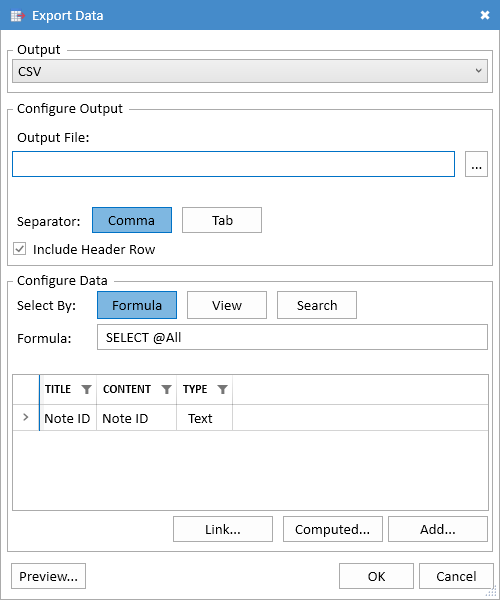
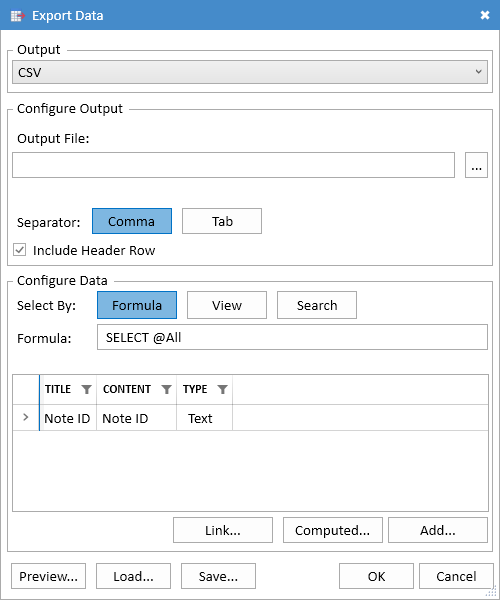
Update EN docs for 5.1.0

diff --git a/docs/release.ja.md b/docs/release.ja.md
@@ -1,108 +1,32 @@
-# リリースノート
-## Teamstudio Export 5.0
-Teamstudio Export 5.0 は機能拡張版です。
+# Release Notes
+## Teamstudio Export 5.1
+Teamstudio Export 5.1 is a feature update to Export.
 
-Export 5.0 の主な新機能は、強力なデータエクスポーターです。これにより、さまざまな形式でデータをエクスポートできます:
+The data export feature introduced in Export 5.0 has been updated to allow you to save and reload your data selection criteria. This includes your specific selection (formula, view, or search) as well as the list of columns to be exported.
 
-* **SharePoint リスト** - 新規または既存の SharePoint リストにデータをアップロードし、添付ファイルを含めることも可能です。
-* **CSV** - コンマやタブで区切られたテキストファイルを生成します。
-* **添付ファイル** - すべての添付ファイル、OLEオブジェクト、埋め込み画像を抽出できます。
+Export 5.1 has transitioned to *.NET 10*, replacing the older .NET Framework used in all previous versions. We now bundle a local .NET runtime directly with Export. While this increases the download and install size, it removes the need for a shared .NET installation on your computer. 
 
-どの出力形式においても、次の 3 つの異なる方法で文書を選択できます。:
+This architectural shift provides several key benefits:
 
-* **式による選択** - ビュー選択式に似ており、Export がサポートする任意の @関数を使用できます。
-* **ビューによる選択** - 指定した既存のビュー内のすべての文書が含まれます。
-* **検索による選択** - Export は Apache Lucene.NET 検索ライブラリが組み込まれており、データに対して全文検索を実行できます。HTML/PDF にデータをエクスポートする際に使用される全文検索は、ブラウザ内で JavaScript を使って実行されるため、提供できる機能に大きな制約があります。その一方、Lucene.NET は Export 内で動作するため、はるかに強力なエクスペリエンスを提供します。例えば、単語ではなくフレーズでの検索が可能であり、特定の用語に一致する文書を除外することもできます。
+* **Simplified Deployment:** Eliminates bugs caused by subtle differences in user-installed .NET Framework versions.
+* **Cutting-Edge Security:** Allows Export to take advantage of the newest, most secure .NET features.
+* **Easier Maintenance:** Simplifies the process of updating Export if vulnerabilities are ever discovered in .NET or third-party libraries.
 
-どの文書を含めるかを選択するだけでなく、エクスポートするデータを 1 つ以上の列の形式で指定することもできます。式や検索による文書選択時、列はデータベース設計の任意のフィールドまたは @関数を使用した計算式を使用できます。ビューによる選択時、初期状態ではビューに定義されたすべての列と Note ID 用の列が含まれます。列の順序を変更したり、不要な列を削除したりできますが、新しい値を追加することはできません。
+Lastly, we have updated our code signing to use *Microsoft Artifact Signing*. This improves security by utilizing short-lived certificates that are valid for only 3 days. Because of this, *it is normal and expected for the certificate to appear expired by the time you install the product.* Rest assured, our signatures are all securely timestamped at the exact moment of signing. As long as the certificate was valid when the product was signed, the signature remains completely valid. Expiring the certificates quickly simply ensures they cannot be misused if they ever fall into the wrong hands.
 
-新しいデータエクスポート機能の詳細は、 [データのエクスポート](data.md)を参照してください。
+Additional fixes are identified in the Fix List section below.
 
-追加の修正内容は以下の不具合修正リストのセクションで確認できます。
+Please refer to [Installing Teamstudio Export](installing.md) for details on system requirements and installation. This page will be updated with any known issues and fixes as they become available.
 
-
-Export 5.0 の新機能や修正を活用するために、データベースを再度アーカイブし直す必要はありません。
-
-システム要件やインストールに関する詳細は [Teamstudio Exportのインストール](installing.md) を参照してください。このページは、既知の問題や修正が利用可能になるたびに更新されます。
-
-## 不具合修正リスト
-### Export 5.0.2
-[508] @Transform で非リテラルの変数名をサポート  
-[509] 著作権表記の年を 2025 年に更新  
-[510] データエクスポート時に UNID をテキストへ変換  
-[511] UrlLinks 内にネストされた AttachmentRefs を処理  
-[512] 空行があると HTML でテーブルが非表示にならない問題を修正  
-[514] “PaintShopPro” の OLE2 オブジェクトをスキップ  
-[515] Base64 エンコードされた添付ファイルを処理  
-[516] CSV パスが無効な場合の NullReferenceException を修正  
-[517] Data Export で Lucene 使用時にまれに発生する NullReferenceException を修正  
-[518] @UrlDecode をサポート  
-[519] @DbLookup のローカルデータベース取得方法を改善  
-[520] 無効化なビュー列の非表示式を処理  
-[521] 置換に用いる（*）の等価演算子が誤った値を返す可能性のある問題を修正  
-[522] Data Export のフィールドピッカーがカテゴリ分けを誤る問題を修正  
-[523] ビュー列で改行区切りを遵守  
-[524] Visio 2 OLE1 オブジェクトを処理  
-[525] 欧州ロケールで PDF イメージマップ生成エラーを修正  
-[526] Base64 エンコードと誤認識されている添付ファイルを処理  
-[527] 埋め込みコントロールで予期しない実行処理  
-[528] @Name([Canonicalize]) が OU コンポーネントを失う問題を修正  
-[529] SharePoint へのエクスポートでリクエストサイズを上限設定  
-[530] 必要に応じて MIME 変換を行わずにドキュメントをアーカイブへ追加  
-[531] MIME→DXL 変換を実装  
-[534] Word.Picture.6 OLE オブジェクトをスキップ  
-[535] ABCFlow OLE オブジェクトをスキップ  
-[536] @Max と @Min を追加  
-[537] @WebDbName を追加  
-[538] @UrlEncode を追加  
-[539] 式のコンパイルエラーで例外出力しないよう修正  
-[540] MSDraw OLE オブジェクトをスキップ  
-[541] 不明な OLE オブジェクトタイプをスキップ  
-[543] ビューキャッシュディレクトリのクリーンアップ中に発生する断続的な IO エラーを修正  
-[544] 類似したファイル名が原因で発生する SharePoint の問題に対処
-
-### Export 5.0.1
-[478] SharePoint アップロード時に Content-Type が欠落している場合の処理を改善  
-[479] SharePoint アップロード時に「Unauthorized」エラーが発生する問題を修正  
-[480] 破損したアーカイブをリフレッシュした際のエラーメッセージを改善  
-[481] SharePoint 接続のログ記録を強化  
-[482] 各サイトごとに個別の MSAL キャッシュを作成  
-[483] Visio.Drawing.4 OLE タイプをサポート  
-[484] データエクスポート時の追加の無効なファイル名文字を処理するように改善  
-[485] SharePoint リストの列を自動的にインデックスしないよう変更  
-[486] データエクスポート時の添付ファイル名に不要な空白などを削除するように改善  
-[487] データエクスポート時の追加の無効なファイル名文字を処理するように改善  
-[488] Package OLE2 オブジェクトの処理を追加  
-[489] 右クリックでサポートファイルを生成する機能を修正  
-[490] ヨーロッパのロケールで埋め込みビューの列幅が正しく表示されない問題を修正  
-[491] 変数名で「@」記号をサポート  
-[492] @ServerName をサポート  
-[493] アーカイブビューで大きなノート ID を処理できるよう修正  
-[494] PaintShopPro OLE 1 オブジェクトをスキップ  
-[495] Excel.Chart.5 OLE 1 タイプをサポート  
-[496] URL で指定された画像をスキップ  
-[497] 格納フォーム内の無効な行/列結合を処理するように修正  
-[498] 格納フォーム内のテキストの水平配置を処理するように修正  
-[499] 格納フォーム内のページ区切りを処理するように修正  
-[500] 古いデータベースでテーブルの余白が正しくない問題を修正  
-[501] 格納フォームでテーブルの余白が正しくない問題を修正  
-[502] Visio.Drawing.3 OLE タイプをサポート  
-[503] 参照されていない添付ファイルが PDF に正しく埋め込まれない問題を修正  
-[504] 添付ファイルのない OLE オブジェクト参照を処理するように修正  
-[505] 添付ファイル名に含まれる複数のピリオド（.）を重複排除  
-[506] ファイル名が空の $file オブジェクトを処理するように修正  
-[507] セクションタイトルの背景処理を改善
-
-### Export 5.0.0
-[187316243]	@DbLookupでビューのデータファイルがない場合の処理  
-[187318928]	アーカイブにDXLをインポートする方法の提供  
-[187363948]	無効な添付ファイル名に対する保護  
-[187408442]	埋め込みビューでの複数値アイコン列の処理  
-[187416749]	埋め込みビューでの複数行エントリーの処理  
-[187486941]	全文索引にTYPE_NOTEREF_LIST項目を含めるように修正  
-[187540358]	PDF 画像サイズをフィットさせるベータオプションの追加  
-[187694126]	列非表示数式での @Created に対する保護  
-[187703998]	データベース間の @DbLookup のサポート  
-[187937349]	'PBrush' および 'AutoCAD' の OLE タイプのサポート  
-[187961958]	'Paint.Picture' および 'SoundRec' の OLE タイプのサポート  
-[188164406] 長い小数点数の表示を改善
+## Fix List
+### Export 5.1.0
+[545] Fix debug warnings from SQLite  
+[546] Constant columns are not properly handled in @DbLookup  
+[547] Update Code Signing Certificate  
+[548] Improve handling of corrupt Base64 attachments  
+[549] Support @While  
+[550] Fix HTML generation for aligned paragraphs with custom bullets  
+[551] Fix PDF error with relative/ambiguous URL links  
+[552] Data for views hidden from the client is not archived  
+[553] Fix 'cannot access file' exception processing certain corrupt OLE objects  
+[554] Support Visio.Drawing.5 OLE type

diff --git a/docs/release.md b/docs/release.md
@@ -1,107 +1,32 @@
 # Release Notes
-## Teamstudio Export 5.0
-Teamstudio Export 5.0 is a feature update to Export.
+## Teamstudio Export 5.1
+Teamstudio Export 5.1 is a feature update to Export.
 
-The major new feature of Export 5.0 is a powerful data exporter. This allows you to export data in a variety of formats:
+The data export feature introduced in Export 5.0 has been updated to allow you to save and reload your data selection criteria. This includes your specific selection (formula, view, or search) as well as the list of columns to be exported.
 
-* **SharePoint Lists** - Upload data to a new or existing SharePoint list, optionally including attachments.
-* **CSV** - Generate text files delimited with commas or tabs.
-* **Attachments** - Extract all attachments, OLE objects and embedded images.
+Export 5.1 has transitioned to *.NET 10*, replacing the older .NET Framework used in all previous versions. We now bundle a local .NET runtime directly with Export. While this increases the download and install size, it removes the need for a shared .NET installation on your computer. 
 
-For any output format, you can select documents in three different ways:
+This architectural shift provides several key benefits:
 
-* **By Formula** - Similar to a view selection formula, using any @function supported by Export.
-* **By View** - Includes all of the documents from an existing view.
-* **By Search** - Export now includes the Apache Lucene.NET search library, allowing you to perform full-text searches on your data. The full-text search that Export uses when you export data to HTML/PDF needs to run within a browser using JavaScript. This places severe limitations on the features that it can provide. Lucene.NET, on the other hand, runs within Export and thus can offer a much more powerful experience. For example, you can search for phrases rather than single words, and can also exclude documents matching certain terms.
+* **Simplified Deployment:** Eliminates bugs caused by subtle differences in user-installed .NET Framework versions.
+* **Cutting-Edge Security:** Allows Export to take advantage of the newest, most secure .NET features.
+* **Easier Maintenance:** Simplifies the process of updating Export if vulnerabilities are ever discovered in .NET or third-party libraries.
 
-In addition to selecting which documents to include, you can also specify the data to be exported, in the form of one or more columns. When you select documents by formula or by search the columns can be any fields from the database design or any computed expressions using @formulas. When you select documents by view, the columns will initially be all of the columns defined in the view along with a column for the Note ID. You can re-order the columns and remove any unwanted ones, but you cannot add new values.
-
-For full details on the new data export features, see [Exporting Data](data.md).
+Lastly, we have updated our code signing to use *Microsoft Artifact Signing*. This improves security by utilizing short-lived certificates that are valid for only 3 days. Because of this, *it is normal and expected for the certificate to appear expired by the time you install the product.* Rest assured, our signatures are all securely timestamped at the exact moment of signing. As long as the certificate was valid when the product was signed, the signature remains completely valid. Expiring the certificates quickly simply ensures they cannot be misused if they ever fall into the wrong hands.
 
 Additional fixes are identified in the Fix List section below.
-
-There is no need to re-archive your database to take advantage of any of the new features and fixes in Export 5.0.
 
 Please refer to [Installing Teamstudio Export](installing.md) for details on system requirements and installation. This page will be updated with any known issues and fixes as they become available.
 
 ## Fix List
-### Export 5.0.2
-[508] Support non-literal variable names in @Transform  
-[509] Bump copyright year to 2025  
-[510] Convert unids to text for data export  
-[511] Handle AttachmentRefs nested in UrlLinks  
-[512] Empty rows can prevent tables from hiding on HTML  
-[514] Skip 'PaintShopPro' OLE 2 objects  
-[515] Handle base64 encoded attachments  
-[516] Fix NullReferenceException when CSV path is invalid  
-[517] Fix rare NullReferenceException using Lucene with Data Export  
-[518] Support @UrlDecode  
-[519] Improve local database resolution in @DbLookup  
-[520] Handle disabled view column hide formulas  
-[521] Permuted (*) equality operators may return incorrect values  
-[522] Data Export field picker categorizes incorrectly  
-[523] Respect newline separator in view columns  
-[524] Handle Visio 2 OLE1 objects  
-[525] Fix error generating PDF imagemaps in European locales  
-[526] Handle attachments incorrectly marked as base64 encoded  
-[527] Handle unexpected runs in embedded controls  
-[528] @Name([Canonicalize]) loses OU components  
-[529] Cap the request size when exporting to SharePoint  
-[530] Add documents to archive without MIME conversion if necessary  
-[531] Implement MIME->DXL conversion  
-[534] Skip Word.Picture.6 OLE objects  
-[535] Skip ABCFlow OLE objects  
-[536] Add @Max and @Min  
-[537] Add @WebDbName  
-[538] Add @UrlEncode  
-[539] Formula compilation errors should not throw an exception  
-[540] Skip MSDraw OLE objects  
-[541] Skip unknown OLE object types  
-[543] Intermittent IO error cleaning up view cache directory  
-[544] Work around SharePoint issue with certain similar filenames
-
-### Export 5.0.1
-[478] Handle missing Content-Type in SharePoint upload  
-[479] SharePoint upload fails with "Unauthorized" error  
-[480] Improve error message when refresh hits a corrupt archive  
-[481] Improve SharePoint connection logging  
-[482] Create a separate MSAL cache for each site  
-[483] Support Visio.Drawing.4 OLE type  
-[484] Handle additional invalid file name characters in data export  
-[485] Do not automatically index SharePoint list columns  
-[486] Trim attachment filenames in data export  
-[487] Handle additional invalid file name character in data export  
-[488] Handle Package OLE2 objects  
-[489] Repair right-click support file generation  
-[490] Embedded view column widths incorrect in European locales  
-[491] Support @ sign in variable names  
-[492] Support @ServerName  
-[493] Handle large note ids in archived views  
-[494] Skip PaintShopPro OLE 1 objects  
-[495] Support Excel.Chart.5 OLE 1 type  
-[496] Skip images specified by URL  
-[497] Handle invalid row/colspans in stored forms  
-[498] Handle text horizontal alignment in stored forms  
-[499] Handle page breaks in stored forms  
-[500] Table margins may be incorrect in older databases  
-[501] Table margins may be incorrect in stored forms  
-[502] Support Visio.Drawing.3 OLE type  
-[503] Unreferenced attachments do not embed correctly in PDFs  
-[504] Handle OLE object references with no attachments  
-[505] Dedupe multiple periods in attachment file names  
-[506] Handle $file objects with an empty name  
-[507] Improve section title background handling
-
-### Export 5.0.0
-[187316243]	Handle missing view data file in @DbLookup  
-[187318928]	Provide a way to import DXL to an archive  
-[187363948]	Protect against invalid attachment names  
-[187408442]	Handle multi-value icon columns in embedded views  
-[187416749]	Handle multi-line entries in embedded views  
-[187486941]	Include TYPE\_NOTEREF\_LIST items in full text index  
-[187540358]	Add beta option to size PDF images to fit  
-[187694126]	Protect against @Created in column hide formula  
-[187703998]	Support cross-database @DbLookups  
-[187937349]	Support 'PBrush' and 'AutoCAD' OLE types  
-[187961958]	Support 'Paint.Picture' and 'SoundRec' OLE types  
-[188164406] Improve display of long decimal numbers
+### Export 5.1.0
+[545] Fix debug warnings from SQLite  
+[546] Constant columns are not properly handled in @DbLookup  
+[547] Update Code Signing Certificate  
+[548] Improve handling of corrupt Base64 attachments  
+[549] Support @While  
+[550] Fix HTML generation for aligned paragraphs with custom bullets  
+[551] Fix PDF error with relative/ambiguous URL links  
+[552] Data for views hidden from the client is not archived  
+[553] Fix 'cannot access file' exception processing certain corrupt OLE objects  
+[554] Support Visio.Drawing.5 OLE type

diff --git a/docs/data.ja.md b/docs/data.ja.md
@@ -152,5 +152,22 @@ Notes のビュー選択式に似た式を入力できます。ほとんどの @
 ## プレビュー
 ダイアログの左下にある *Preview...* ボタンをクリックすると、データベースから最大 50 件の一致する文書が表示されます。これにより、文書の選択や列の定義が正しく設定されているかを確認できます。大規模なデータベースを検索している場合や、選択式に一致する文書が少ない場合、プレビューが一致する文書を見つけるのに時間がかかることがあります。プレビューは、文書が見つかるたびに更新されます。完了を待たずに、いつでも閉じることができます。
 
+## Saving and Loading Data Selections
+Export 5.1 introduces the ability to save and reload your data configuration, i.e., the selection type and the list of columns. The saved configuration does not include the output configuration - CSV file, SharePoint list etc - since this will almost always be different for different databases.
+
+### Save
+The *Save...* button will display a dialog asking for a name for the saved configuration. If you enter the name of an existing configuration, you will be asked if you want to overwrite it. This allows you to modify an existing configuration by loading it, making the necessary changes and then re-saving it using the same name.
+
+### Load
+The *Load...* button will display a dialog showing a list of previously saved configurations.
+
+<figure markdown="1">
+  ![Load Data](img/data_load.png)
+</figure>
+
+The list is categorized by the selection type: *Formula*, *View* or *Search*. If you select a configuration and click *OK*, Export will attempt to load it. In some cases Export will not be able to load the requested configuration. For example, if the selection is based on a view, Export will verify that a view with the correct name exists in the current database. If a matching view cannot be found, Export will be unable to load the configuration. If a view with the correct name is found but it does not have all of the required columns, Export will load the configuration but will display a warning that not all of the columns could be loaded.
+
+You can delete a saved configuration by right-clicking on it in the *Load* dialog and choosing *Delete* from the popup menu.
+
 ## エクスポート
 エクスポートを設定し、出力をプレビューした後、*OK* をクリックするとエクスポートが開始されます。エクスポートはバックグラウンドで実行され、他のバックグラウンドタスクと同様に [Progress Window](progress.md) で監視できます。

diff --git a/docs/data.md b/docs/data.md
@@ -155,5 +155,22 @@ Link columns will be exported to SharePoint as URL columns rather than plain tex
 ## Preview
 The *Preview...* button at the bottom left of the dialog will show up to 50 matching documents from the database. This allows you to check that you have the document selection and column definitions set up correctly before starting the export. It may take some time for the preview to find matching documents if you are searching a large database and not many documents match the selection formula. The dialog will update to show matching documents as they are found. You can close it at any time without waiting for the preview to complete.
 
+## Saving and Loading Data Selections
+Export 5.1 introduces the ability to save and reload your data configuration, i.e., the selection type and the list of columns. The saved configuration does not include the output configuration - CSV file, SharePoint list etc - since this will almost always be different for different databases.
+
+### Save
+The *Save...* button will display a dialog asking for a name for the saved configuration. If you enter the name of an existing configuration, you will be asked if you want to overwrite it. This allows you to modify an existing configuration by loading it, making the necessary changes and then re-saving it using the same name.
+
+### Load
+The *Load...* button will display a dialog showing a list of previously saved configurations.
+
+<figure markdown="1">
+  ![Load Data](img/data_load.png)
+</figure>
+
+The list is categorized by the selection type: *Formula*, *View* or *Search*. If you select a configuration and click *OK*, Export will attempt to load it. In some cases Export will not be able to load the requested configuration. For example, if the selection is based on a view, Export will verify that a view with the correct name exists in the current database. If a matching view cannot be found, Export will be unable to load the configuration. If a view with the correct name is found but it does not have all of the required columns, Export will load the configuration but will display a warning that not all of the columns could be loaded.
+
+You can delete a saved configuration by right-clicking on it in the *Load* dialog and choosing *Delete* from the popup menu.
+
 ## Export
 Once you have configured the export and previewed the output, you can start the export by clicking *OK*. The export itself will take place in the background and, as with any background task, can be monitored in the [Progress Window](progress.md).

diff --git a/docs/index.ja.md b/docs/index.ja.md
@@ -1,2 +1,2 @@
 # ドキュメンテーション
-これはTeamstudio Export 5.0 のドキュメンテーションです。
+これはTeamstudio Export 5.1 のドキュメンテーションです。

diff --git a/docs/index.md b/docs/index.md
@@ -1,2 +1,2 @@
 # Documentation
-This is the documentation for Teamstudio Export 5.0.
+This is the documentation for Teamstudio Export 5.1.
